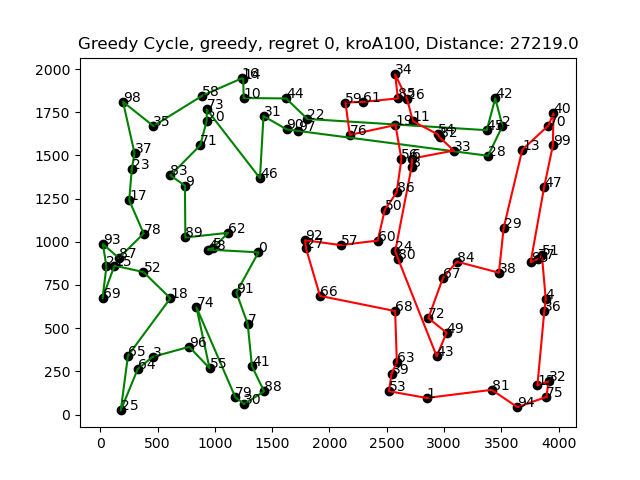
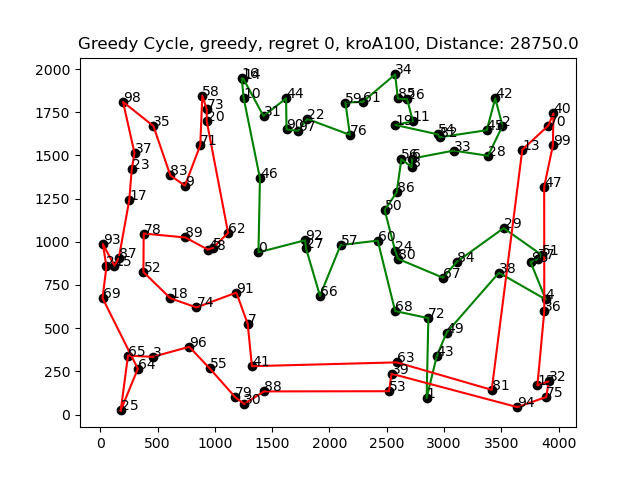
candidates moves

diff --git a/approaches/local_search_cycle/ls_candidates_moves.py b/approaches/local_search_cycle/ls_candidates_moves.py
@@ -19,6 +19,7 @@ class LocalSearchCandidateMoves(AbstractApproach):
         self.neighborhood = 'nodes'
         self._first_solution = None
         self._second_solution = None
+        self.total_best_cost = None
     
     
     def solve(self, n_candidats):
@@ -31,114 +32,132 @@ class LocalSearchCandidateMoves(AbstractApproach):
     def _steepest_solution(self, n_candidats):
         check_first = True
         check_second = True
-        total_best_cost = self.compute_total_cost()
+        self.total_best_cost = self.compute_total_cost()
         
         start = time.time()
 
         nearest_neighbours = dict()
         for node in range(len(self.instance.matrix)):
             nearest_neighbours[node] = np.argsort(self.instance.matrix[node])[1:n_candidats+1]
-
+        
         while check_first or check_second:
 
             if check_first:
                 check_first = False
-                candidate = list()
-                local_best = total_best_cost
-                for i, node in enumerate(self._first_solution[:-1]):
-                    solutions = self._get_which_solution(node, nearest_neighbours[node])
+                candidates = list()
+                local_best = self.total_best_cost
+                for node_idx, node in enumerate(self._first_solution[:-1]):
+                    solutions, solutions_idx = self._get_which_solution(node, nearest_neighbours[node])
                     for i_n, neighbour in enumerate(nearest_neighbours[node]):
                         if solutions[neighbour] == 'FIRST':
-                            temp_solution, temp_cost = cycle_operations.replace_edges_inside_cycle(self, node, neighbour, self._first_solution[:], total_best_cost)
-                            if temp_cost < local_best:
-                                local_best = temp_cost
-                                candidate = [temp_solution[:], self._second_solution[:]]
-                            j = i-1
-                            if j == -1:
-                                j = -2
-                            node = self._first_solution[j]
-                            j_n = i_n-1
-                            if j_n == -1:
-                                j_n = -2
-                            neighbour = self._first_solution[j_n]
-                            temp_solution, temp_cost = cycle_operations.replace_edges_inside_cycle(self, node, neighbour, self._first_solution[:], total_best_cost)
-                            if temp_cost < local_best:
-                                local_best = temp_cost
-                                candidate = [temp_solution[:], self._second_solution[:]]
+                            if solutions_idx[neighbour] < node_idx:
+                                continue
+                            self._perform_inside_cycle('_first_solution', node, node_idx, neighbour, solutions_idx, candidates)
                         else:
-                            node2 = self._first_solution[i+1]
-                            temp_first_solution, temp_second_solution, temp_cost = cycle_operations.replace_nodes_between_cycles(self, node2, neighbour, self._first_solution[:], self._second_solution[:], total_best_cost)
-                            if temp_cost < local_best:
-                                local_best = temp_cost
-                                candidate = [temp_first_solution[:], temp_second_solution[:]]
-
-                            j = i-1
-                            if j == -1:
-                                j = -2
-                            node2 = self._first_solution[j]
-                            temp_first_solution, temp_second_solution, temp_cost = cycle_operations.replace_nodes_between_cycles(self, node2, neighbour, self._first_solution[:], self._second_solution[:], total_best_cost)
-                            if temp_cost < local_best:
-                                local_best = temp_cost
-                                candidate = [temp_first_solution[:], temp_second_solution[:]]
-                if candidate:
+                            self._perform_between_cycles('_first_solution', node_idx, neighbour, candidates) 
+                if candidates:
                     check_first = True
-                    total_best_cost = local_best
-                    self._first_solution = deepcopy(candidate[0])
-                    self._second_solution = deepcopy(candidate[1])
+                    self._save_candidate(min(candidates))
                     
            ################################################ 
             if check_second:
                 check_second = False
-                candidate = list()
-                local_best = total_best_cost
-                for i, node in enumerate(self._second_solution[:-1]):
-                    solutions = self._get_which_solution(node, nearest_neighbours[node])
+                candidates = list()
+                local_best = self.total_best_cost
+                for node_idx, node in enumerate(self._second_solution[:-1]):
+                    solutions, solutions_idx = self._get_which_solution(node, nearest_neighbours[node])
                     for i_n, neighbour in enumerate(nearest_neighbours[node]):
                         if solutions[neighbour] == 'SECOND':
-                            temp_solution, temp_cost = cycle_operations.replace_edges_inside_cycle(self, node, neighbour, self._second_solution[:], total_best_cost)
-                            if temp_cost < local_best:
-                                local_best = temp_cost
-                                candidate = [self._first_solution[:], temp_solution[:]]
-                            
-                            j = i-1
-                            if j == -1:
-                                j = -2
-                            node = self._second_solution[j]
-                            j_n = i_n-1
-                            if j_n == -1:
-                                j_n = -2
-                            neighbour = self._second_solution[j_n]
-                            temp_solution, temp_cost = cycle_operations.replace_edges_inside_cycle(self, node, neighbour, self._second_solution[:], total_best_cost)
-                            if temp_cost < local_best:
-                                local_best = temp_cost
-                                candidate = [self._first_solution[:], temp_solution[:]]
+                            if solutions_idx[neighbour] < node_idx:
+                                continue
+                            self._perform_inside_cycle('_second_solution', node, node_idx, neighbour, solutions_idx, candidates)
                         else:
-                            node2 = self._second_solution[i+1]
-                            temp_first_solution, temp_second_solution, temp_cost = cycle_operations.replace_nodes_between_cycles(self, neighbour, node2, self._first_solution[:], self._second_solution[:], total_best_cost)
-                            if temp_cost < local_best:
-                                local_best = temp_cost
-                                candidate = [temp_first_solution[:], temp_second_solution[:]]
-
-                            j = i-1
-                            if j == -1:
-                                j = -2
-                            node2 = self._second_solution[j]
-                            temp_first_solution, temp_second_solution, temp_cost = cycle_operations.replace_nodes_between_cycles(self, neighbour, node2, self._first_solution[:], self._second_solution[:], total_best_cost)
-                            if temp_cost < local_best:
-                                local_best = temp_cost
-                                candidate = [temp_first_solution[:], temp_second_solution[:]]
-                if candidate:
+                            self._perform_between_cycles('_second_solution', node_idx, neighbour, candidates) 
+                if candidates:
                     check_second = True
-                    total_best_cost = local_best
-                    self._first_solution = deepcopy(candidate[0])
-                    self._second_solution = deepcopy(candidate[1])
+                    self._save_candidate(min(candidates))
         return time.time() - start
         
     def _get_which_solution(self, node, sorted_neighbours):
         solutions = dict()
+        solutions_idx = dict()
         for n in sorted_neighbours:
             if n in self._first_solution:
                 solutions[n] = 'FIRST'
+                solutions_idx[n] = self._first_solution.index(n)
             else:
                 solutions[n] = 'SECOND'
-        return solutions
+                solutions_idx[n] = self._second_solution.index(n)
+        return solutions, solutions_idx
+
+    def _perform_between_cycles(self, main_solution, node_idx, neighbour, candidates):
+        solution = getattr(self, main_solution)[:]
+        if candidates:
+            local_best = min(candidates).score
+        else:
+            local_best = self.total_best_cost
+        
+        if main_solution == '_first_solution':
+            temp_first_solution, temp_second_solution, temp_cost \
+                                = cycle_operations.replace_nodes_between_cycles(self, solution[node_idx+1], neighbour, \
+                                                                                self._first_solution[:], self._second_solution[:], \
+                                                                                self.total_best_cost)
+        else:
+            temp_first_solution, temp_second_solution, temp_cost \
+                                = cycle_operations.replace_nodes_between_cycles(self, neighbour, solution[node_idx+1], \
+                                                                                self._first_solution[:], self._second_solution[:], \
+                                                                                self.total_best_cost)
+        if temp_cost < local_best:
+            local_best = temp_cost
+            candidates.append( Replacement(temp_first_solution[:], temp_second_solution[:], temp_cost) )
+
+        j = node_idx-1
+        if j == -1:
+            j = -2
+        if main_solution == '_first_solution':
+            temp_first_solution, temp_second_solution, temp_cost \
+                                = cycle_operations.replace_nodes_between_cycles(self, solution[j], neighbour, \
+                                                                                self._first_solution[:], self._second_solution[:], \
+                                                                                self.total_best_cost)
+        else:
+            temp_first_solution, temp_second_solution, temp_cost \
+                                = cycle_operations.replace_nodes_between_cycles(self, neighbour, solution[j], \
+                                                                                self._first_solution[:], self._second_solution[:], \
+                                                                                self.total_best_cost)
+        if temp_cost < local_best:
+            local_best = temp_cost
+            candidates.append( Replacement(temp_first_solution[:], temp_second_solution[:], temp_cost) )
+    
+    def _perform_inside_cycle(self, main_solution, node, node_idx, neighbour, solutions_idx, candidates):
+        if candidates:
+            local_best = min(candidates).score
+        else:
+            local_best = self.total_best_cost
+
+        solution = getattr(self, main_solution)[:]
+        temp_solution, temp_cost = cycle_operations.replace_edges_inside_cycle(self, node, neighbour, solution, self.total_best_cost)
+        if temp_cost < local_best:
+            local_best = temp_cost
+            if main_solution == '_first_solution':
+                candidates.append( Replacement(temp_solution[:], self._second_solution[:], temp_cost) )
+            else:
+                candidates.append( Replacement(self._first_solution[:], temp_solution[:], temp_cost) )
+
+        if node_idx+1 == solutions_idx[neighbour]:
+            return
+        j_n = solutions_idx[neighbour]+1
+        if j_n == len(solution)-1:
+            return
+
+        temp_solution, temp_cost = cycle_operations.replace_edges_inside_cycle(self, solution[node_idx+1], solution[j_n], solution, self.total_best_cost)
+        if temp_cost < local_best:
+            local_best = temp_cost
+            if main_solution == '_first_solution':
+                candidates.append( Replacement(temp_solution[:], self._second_solution[:], temp_cost) )
+            else:
+                candidates.append( Replacement(self._first_solution[:], temp_solution[:], temp_cost) )
+    
+    def _save_candidate(self, best_candidate):
+        self.total_best_cost = best_candidate.score
+        self._first_solution = best_candidate._first_cycle
+        self._second_solution = best_candidate._second_cycle

diff --git a/ls_list_candidates_moves.py b/ls_list_candidates_moves.py
@@ -39,7 +39,7 @@ def main():
     times = defaultdict(list)
     scores = defaultdict(list)
     
-    for instance_name in ['kroA100']:
+    for instance_name in ['kroA200', 'kroB200']:
         instance = Instance(name = instance_name)
         instance.compute_matrix()
 
@@ -68,10 +68,10 @@ def main():
             #steepest, edges, random
             local_search.first_solution = random_cycle.first_solution[:]
             local_search.second_solution = random_cycle.second_solution[:]
-            #time = local_search.solve(method = 'steepest')
+            time = local_search.solve(method = 'steepest')
             times[f'steepest, edges, random, {instance_name}'].append(time)
             scores[f'steepest, edges, random, {instance_name}'].append(deepcopy(local_search))
-            print(time)
+            
             ##################################################################
             #LocalSearchWithList
             local_search_with_list = LocalSearchWithList(instance)
@@ -80,10 +80,9 @@ def main():
             #steepest with LM,, edges, random
             local_search_with_list.first_solution = random_cycle.first_solution[:]
             local_search_with_list.second_solution = random_cycle.second_solution[:]
-            #time = local_search_with_list.solve()
+            time = local_search_with_list.solve()
             times[f'steepest with LM, edges, random, {instance_name}'].append(time)
             scores[f'steepest with LM, edges, random, {instance_name}'].append(deepcopy(local_search_with_list))
-            print(time)
 
             ##################################################################
             #LocalSearchCandidateMoves
@@ -93,10 +92,9 @@ def main():
             #candidates moves, random
             ls_candidates_moves.first_solution = random_cycle.first_solution[:]
             ls_candidates_moves.second_solution = random_cycle.second_solution[:]
-            time = ls_candidates_moves.solve(n_candidats = 2)
+            time = ls_candidates_moves.solve(n_candidats = 8)
             times[f'Candidates moves, random, {instance_name}'].append(time)
             scores[f'Candidates moves, random, {instance_name}'].append(deepcopy(ls_candidates_moves))
-            print(time)
 
     
     save_string = '\n'

diff --git a/approaches/local_search_cycle/local_search_heuristic.py b/approaches/local_search_cycle/local_search_heuristic.py
@@ -138,7 +138,7 @@ class LocalSearch(AbstractApproach):
         
         return result
 
-    def _interclass_computation(self, best_cost, method):
+    def _interclass_computation(self, best_cost, method, replace = False):
         result = list()
 
         nodes_product = list(product(self._first_solution[:-1], self._second_solution[:-1]))
@@ -148,7 +148,10 @@ class LocalSearch(AbstractApproach):
         for (node1, node2) in nodes_product:
             temp_first_solution, temp_second_solution, temp_cost = cycle_operations.replace_nodes_between_cycles(self, node1, node2, self._first_solution[:], self._second_solution[:], best_cost)
             if temp_cost < best_cost:   
-                result.append( Replacement(temp_second_solution, temp_first_solution, temp_cost) )
+                if replace:
+                    result.append( Replacement(temp_second_solution, temp_first_solution, temp_cost) )
+                else:
+                    result.append( Replacement(temp_first_solution, temp_second_solution, temp_cost) )
                 if method == 'greedy':
                     break
         return result
